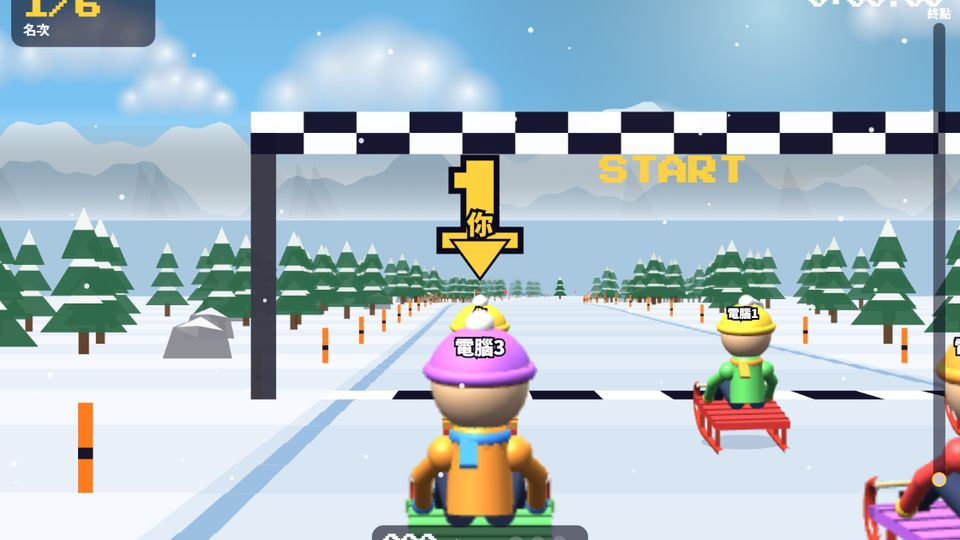
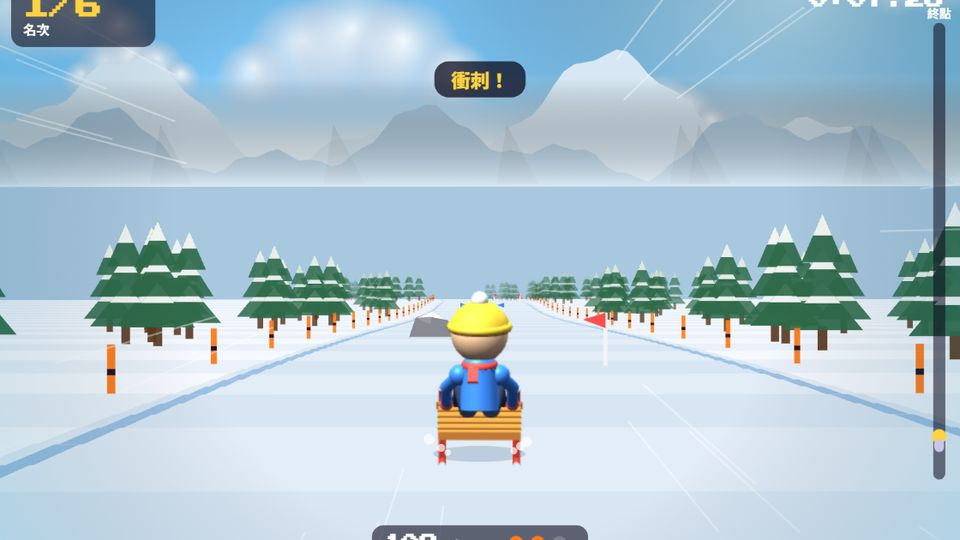
主視覺全面檢查：雪橇改成比賽中畫面 (v323)

diff --git a/index.html b/index.html
@@ -298,7 +298,7 @@ body.padswap #pad{flex-direction:row-reverse} /* 方向鍵放右邊 */
 <div id="modal" hidden><div class="card" id="mcard"></div></div>
 
 <script>
-window.ARCADE_V=322; // 每次改版加一
+window.ARCADE_V=323; // 每次改版加一
 (function(){ var q=/github\.io$/.test(location.hostname)?'?v='+window.ARCADE_V:'';
   document.write(['stairs','kart','bomb','volley','crowd3d','dodge3d','dodge','soccer3d','soccer','bowl3d','bowl','baseball3d','baseball','purple','rummy','mahjong','meow','poker','dice','deliver3d','deliver','chess','qi','racer','brawl','bball3d','bball','h3d','golf3d','golf','pool3d','pool','blocks','drum','dance','tower','jelly','rich','space','royale','draw','wolf','passbomb','bubble','claw','tank','dash','spin','night','chase3d','chase','sumo','sky','boxing','ace','classic','hide','spy','sling','room','boomcode','tug','truth','charades','party','gems','chair','tacit','piano','stroke','dragon','badminton','cook','fish','pickleball','tennis','pingpong','racket'].map(function(n){ return '<script src="'+n+'.js'+q+'"><\/script>'; }).join('')); })();
 </script>
